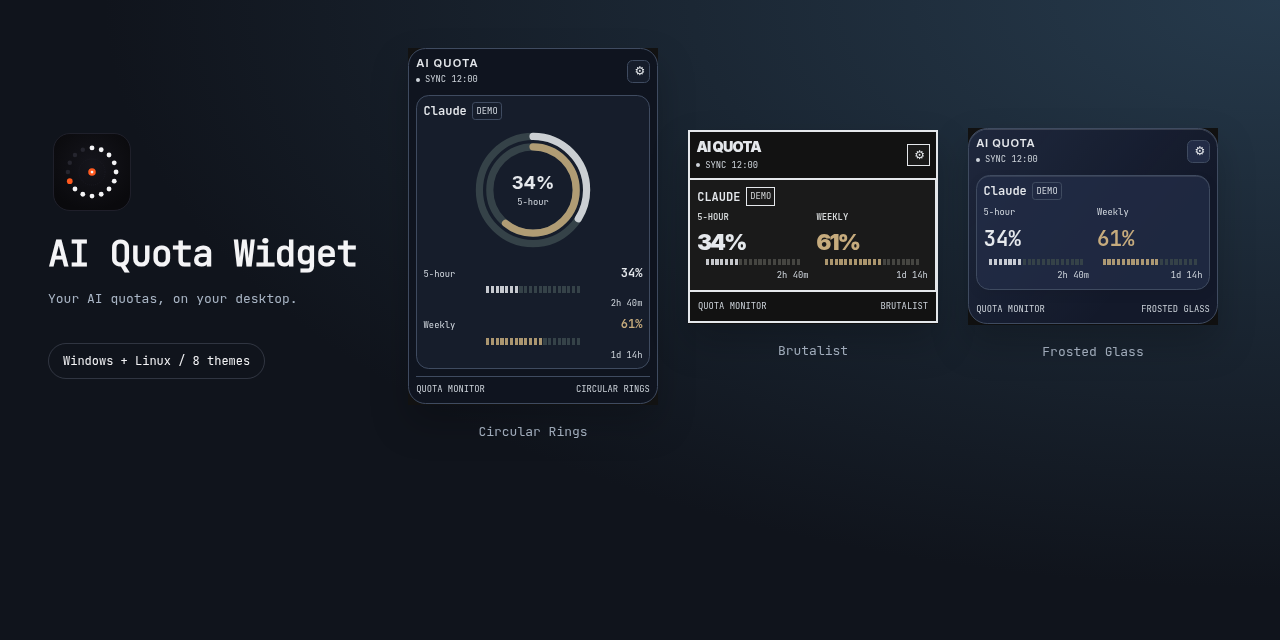
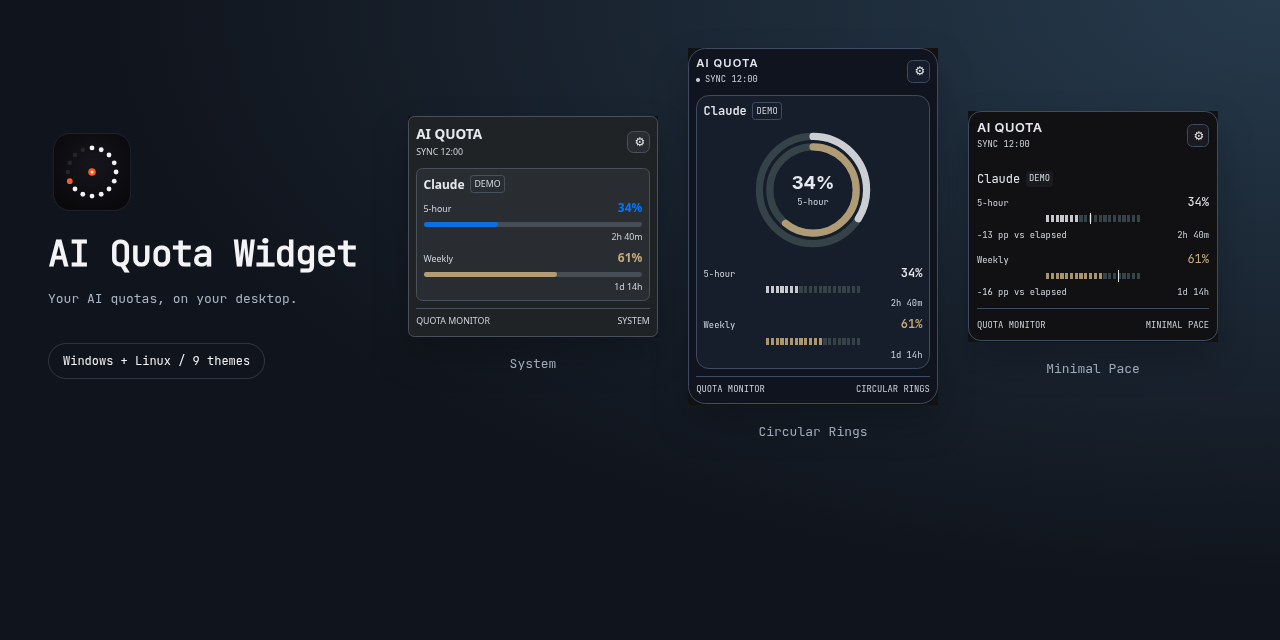
docs(readme): lead with the system theme

diff --git a/README.md b/README.md
@@ -14,14 +14,14 @@
 <p align="center">
   <picture>
     <source media="(prefers-color-scheme: light)" srcset="docs/screenshots/hero-light.png">
-    <img src="docs/screenshots/hero-dark.png" width="1000" alt="Circular Rings, Brutalist and Frosted Glass themes showing fictional quota data">
+    <img src="docs/screenshots/hero-dark.png" width="1000" alt="System theme on a desktop background with fictional quota data">
   </picture>
 </p>
 <p align="center"><a href="#install">Download</a> · <a href="#quick-start">Quick start</a> · <a href="docs/providers.md">Docs</a></p>
 
 Keep Claude Code, Codex and Gemini quota windows visible while you work. A compact desktop widget shows how much is used, when limits reset, and when a source needs attention. Resize it for a small glanceable display or keep detailed cards beside your editor. Panel integrations share the same local snapshot.
 
-Pre-release: installers are coming with v0.1. The name and logo are provisional. Gallery values are fictional; provider and desktop validation are listed below.
+Pre-release: installers are coming with v0.1. The working name is provisional. Gallery values are fictional; provider and desktop validation are listed below.
 
 ## Install
 
@@ -56,20 +56,20 @@ Open Vite's displayed URL with `?sample` to see fictional data. For a native sou
 
 ### Themes
 
-Choose from eight built-in themes: Dot Matrix, Circular Rings, Terminal, Frosted Glass, Brutalist, Compact Strip, Retro LCD and Minimal Pace. The Theme cards at the top of Settings switch the layout immediately. Each theme supports Auto, Light and Dark appearance; the palette list follows the selected theme. Compact Strip becomes horizontal in wide windows. Minimal Pace compares usage with elapsed session or weekly time; unknown intervals remain marked unavailable.
+System is the default: it fits your desktop with system fonts, light/dark appearance and the system accent where supported. Choose from nine built-in themes: System, Dot Matrix, Circular Rings, Terminal, Frosted Glass, Brutalist, Compact Strip, Retro LCD and Minimal Pace. The Theme cards at the top of Settings switch the layout immediately. Each theme supports Auto, Light and Dark appearance; the palette list follows the selected theme. Compact Strip becomes horizontal in wide windows. Minimal Pace compares usage with elapsed session or weekly time; unknown intervals remain marked unavailable.
 
 <picture>
   <source media="(prefers-color-scheme: light)" srcset="docs/screenshots/themes-light.png">
-  <img src="docs/screenshots/themes.png" alt="Eight selectable application themes with fictional quota data" width="1100">
+  <img src="docs/screenshots/themes.png" alt="Nine selectable application themes with fictional quota data" width="1100">
 </picture>
 
 [Individual dark and light captures](docs/screenshots/themes/) · [Light gallery](docs/screenshots/themes-light.png)
 
 ### Colors and sizing
 
-Dot Matrix includes Signal Orange, Sakura Pink, Nord and Mono Paper; the other themes include a palette matched to their design. Calm is the default: neutral usage below 50%, soft amber from 50%, and muted red from 80%. Choose Vivid in Settings → Look for the original colors, or Mono for pure black and white surfaces with hollow warning marks and inverse percentage capsules from 80%. The accent edge starts off; Auto follows the selected left/right corner and disappears in Free placement, or you can choose a fixed side. Accent and background colors can be overridden. Separate widget and background opacity controls let you tune transparency while keeping text readable. These controls change opacity, not monitor brightness or compositor blur.
+Dot Matrix starts with neutral Slate and includes Signal Orange, Sakura Pink, Nord and Mono Paper; the other themes include a palette matched to their design. Calm is the default: neutral usage below 50%, soft amber from 50%, and muted red from 80%. Choose Vivid in Settings → Look for the original colors, or Mono for pure black and white surfaces with hollow warning marks and inverse percentage capsules from 80%. The accent edge starts off; Auto follows the selected left/right corner and disappears in Free placement, or you can choose a fixed side. Accent and background colors can be overridden. Separate widget and background opacity controls let you tune transparency while keeping text readable. These controls change opacity, not monitor brightness or compositor blur.
 
-![All eight themes in Mono with fictional quota data](docs/screenshots/mono.png)
+![All nine themes in Mono with fictional quota data](docs/screenshots/mono.png)
 
 ![Four palette variants of the real widget](docs/screenshots/palettes.png)
 
@@ -123,7 +123,7 @@ Stable marks recorded live-source checks; beta adapters still need live-account 
 
 ## Privacy & security
 
-First launch asks which providers to track; nothing is enabled until you choose **Start**. CLI users run `quotacore init`. New providers default off. The widget reads a local snapshot. Collection can contact provider services using existing credentials: Claude's `~/.claude/.credentials.json`, Codex/agy CLI-managed authentication, GitHub CLI's token, or optional OpenRouter/DeepSeek API keys from environment variables or local `secrets.json`. JetBrains reads a local quota XML file.
+First launch asks which providers to track; all providers stay disabled until you choose **Start**. CLI users run `quotacore init`. New providers default off. The widget reads a local snapshot. Collection can contact provider services using existing credentials: Claude's `~/.claude/.credentials.json`, Codex/agy CLI-managed authentication, GitHub CLI's token, or optional OpenRouter/DeepSeek API keys from environment variables or local `secrets.json`. JetBrains reads a local quota XML file.
 
 Requests retrieve usage or balances; the collector does not submit prompts or request model completions. It does not scan chat history. Passive panel reads make no network requests; explicit refresh runs the collector. There is no application telemetry or analytics code. Third-party CLIs retain their own networking behavior. Snapshots, observations and pace history stay local and can contain sensitive usage metadata; do not attach raw files to issues. See the [security model](docs/security-model.md) for credential destinations, plaintext key storage, process limits, retention and verification; [provider data boundaries](docs/providers.md) describe adapter support.
 

diff --git a/docs/tools/README.md b/docs/tools/README.md
@@ -16,13 +16,13 @@ Hero, size, palette, scale, state and settings scenes embed the **built applicat
 
 Chrome's sandbox stays enabled by default. Restricted development environments can explicitly opt out with `SCREENSHOT_NO_SANDBOX=1`; only use that override with these trusted local fixtures. It needs loopback socket access. In an environment that denies sockets, rerun with the appropriate local execution permission. It does not need internet access once dependencies are present. Browser profile and servers are cleaned up on completion. Inspect every PNG after changing UI or fixtures; native desktop acceptance and design review remain separate.
 
-Theme captures include `themes.png`, `themes-light.png`, and `themes/<id>-dark.png` / `-light.png`. Hero and social preview compose multiple real themes. `checks/<id>-dark.png` / `-light.png` put the 340/200 px × 100/150% scale combinations side by side (64 cases total). Additional state scenes exercise stale/auth/rate-limit and extra/unknown windows. `checks/results.json` records provider counts, horizontal overflow, minimum visible text/number sizes, secondary text contrast and the one-active-theme-style invariant. The same browser then exercises every theme selector, appearance, 50/300% scale and the extra-window toggle, Color mode and all 12 Accent edge/position combinations. Fit frames are measured after font loading.
+Theme captures include `themes.png`, `themes-light.png`, and `themes/<id>-dark.png` / `-light.png`. Hero shows the System theme on Windows 11 style light and KDE Breeze style dark desktop backgrounds; social preview combines System with other real themes. `checks/<id>-dark.png` / `-light.png` put the 340/200 px × 100/150% scale combinations side by side (72 cases total). Additional state scenes exercise stale/auth/rate-limit and extra/unknown windows. `checks/results.json` records provider counts, horizontal overflow, minimum visible text/number sizes, secondary text contrast and the one-active-theme-style invariant. The same browser then exercises every theme selector, appearance, 50/300% scale and the extra-window toggle, Color mode and all 12 Accent edge/position combinations. Fit frames are measured after font loading.
 
 All widget scenes use Calm with the accent edge off. `checks/vivid.png` compares Calm and Vivid. Readability checks require labels ≥11 CSS px and primary numbers ≥15 CSS px at 100% (scaled proportionally at 150%), with secondary text contrast ≥4.5:1. Contrast is calculated from computed text colors and composited background-color layers against the least favorable black/white desktop polarity; background images and compositor effects require visual review. `checks/` remains ignored.
 
-`SCENE=checks/providers- node docs/tools/screenshots.mjs` captures first-run provider consent in all eight themes in dark/light modes and checks default-off choices, wrapped disclosures and explicit Start behavior. These controls use synthetic detection only.
+`SCENE=checks/providers- node docs/tools/screenshots.mjs` captures first-run provider consent in all nine themes in dark/light modes and checks default-off choices, wrapped disclosures and explicit Start behavior. These controls use synthetic detection only.
 
-Mono adds `mono.png` (all eight themes), `checks/mono-light.png`,
+Mono adds `mono.png` (all nine themes), `checks/mono-light.png`,
 `checks/mono-thresholds.png` (0/49/50/79/80/100/unknown), and
 `checks/dots-{200,340,520,700}.png`. Mono uses a neutral gallery background.
 Width checks assert visible per-window mark counts (10 in XS, otherwise 20)
@@ -31,3 +31,11 @@ and record mark widths alongside the other metrics. Interaction checks exercise
 warning at exactly 50%, danger at exactly 80%, and the first hollow warning mark.
 Filtered runs save their numeric results under `checks/<SCENE with slashes
 replaced by hyphens>.json`; unfiltered runs continue to write `checks/results.json`.
+
+System is the default theme. `checks/system-matrix-dark.png` and
+`checks/system-matrix-light.png` cover 200/340/520 CSS px × Calm/Mono (12 cases).
+These scenes emulate the OS color preference with Appearance set to Auto and
+assert the resolved mode, system font stack, 8 px corners and continuous bars.
+System is excluded from dot-count assertions because its meters are continuous;
+its quota severity thresholds are still checked. Native accent support is recorded
+in the results; actual WebView2/WebKitGTK desktop rendering needs platform checks.

diff --git a/docs/configuration.md b/docs/configuration.md
@@ -2,7 +2,7 @@
 
 Display settings and quota collection settings are separate. Change display settings using the gear button; do not edit files while the widget is saving them. The browser's `?sample` mode uses synthetic data and never saves native settings.
 
-New Look fields default to Calm/Off when missing. Until the native settings schema supports them, these two fields also persist in the local webview store; they are not portable by copying `settings.json` alone.
+Theme defaults to System when no choice is stored; an existing explicit theme is preserved. Theme and newer Look fields persist in the local webview store until the native settings schema supports them, so copying `settings.json` alone does not transfer them.
 
 ## Display settings
 
@@ -10,10 +10,11 @@ New Look fields default to Calm/Off when missing. Until the native settings sche
 
 | Field | Default | Meaning |
 | --- | --- | --- |
+| `theme` | `system` | System, Dot Matrix and seven other designs; selected in Settings → Theme. |
 | `appearance` | `auto` | `auto`, `light`, `dark`; auto follows OS color preference live. |
-| `colorMode` | `calm` | Neutral usage through 50%, soft amber above 50%, muted red from 80%; `vivid` restores theme colors. |
+| `colorMode` | `calm` | Neutral or system-accent usage below 50%, soft amber from 50%, muted red from 80%; `vivid` restores theme colors. |
 | `accentEdge` | `off` | `off`, `auto`, `left`, `right`; Auto follows the selected corner, with no edge in Free placement. |
-| `palette` | `signal-orange` | `signal-orange`, `sakura-pink`, `nord`, `mono-paper`. |
+| `palette` | Theme dependent | System: `default` (Desktop). Dot Matrix: `slate` (neutral default), `signal-orange`, `sakura-pink`, `nord`, `mono-paper`. Existing palette choices remain available. |
 | `accent`, `background` | `null` | Optional CSS color overrides; choosing a palette clears these overrides. |
 | `widgetOpacity` | `100` | Opacity of the entire widget, including text; UI range 20–100. |
 | `backgroundOpacity` | `100` | Background opacity, 0–100; this does not enable compositor blur. |
@@ -79,3 +80,5 @@ Provider CLIs must be discoverable in the desktop process environment, which can
 `doctor` uses cached data and reports resolved Python/module/CLI paths. Use `doctor --live` only when you want credential/network checks of enabled providers. `key set` stores plaintext keys with Unix 0600 or a current-user protected Windows DACL. See the [security model](security-model.md).
 
 Hook chaining uses a JSON argv array: `quotacore hook claude --chain-cmd '["program", "argument"]'`. `--chain` is now an alias for the same JSON format; old shell strings must be migrated explicitly to `--chain-shell`. Both receive raw stdin, allow 5 seconds and at most 64 KiB stdout. Only trust commands you select.
+
+System uses a system-ui font stack without bundled theme fonts, 8 px cards and continuous rounded bars. Auto appearance follows `prefers-color-scheme`; supported webviews use CSS `AccentColor` and `AccentColorText`, with a neutral blue-gray fallback. Mono retains continuous bars and adds a warning hatch / inverse danger label. System keeps one column at wide sizes.

diff --git a/docs/design-spec.md b/docs/design-spec.md
@@ -1,13 +1,14 @@
 # Meter and size standard
 
-Every quota window has 20 marks by default. Settings → Look → Dot count selects
+System uses continuous rounded progress bars, system fonts and 8 px card corners.
+All other themes have 20 marks per quota window by default. Settings → Look → Dot count selects
 10, 20 or 30. XS (below 220 design pixels) always uses 10. Marks represent used
 quota, rounded to the nearest mark; the percentage remains the precise label.
 Unknown quota has an explicitly unknown appearance and label. Widening a window
 never increases mark count or mark diameter. Rows center within their available
 space and may wrap at extreme sizes instead of shrinking the marks.
 
-Dot Matrix uses circles. Other themes use rectangular segments while retaining
+Dot Matrix uses circles. The other themes use rectangular segments while retaining
 their typography, borders and layouts. Circular Rings retains its additional
 continuous rings; Minimal Pace retains the elapsed-time marker.
 
@@ -25,11 +26,11 @@ pure black surfaces and white ink (reversed in Light); secondary ink and tracks
 are gray. Theme identity comes from geometry and typography, rather than hue.
 
 From 50%, the last portion of active marks, beginning at the midpoint, becomes
-hollow. From 80%, percentage labels use an inverse capsule as well. Stale and
+hollow; System uses a warning hatch on its continuous bar. From 80%, percentage labels use an inverse capsule as well. Stale and
 other status badges have monochrome outlines. Unknown marks stay distinct.
 No pulse animation is used, including with reduced motion enabled.
 
-See [the eight-theme Mono gallery](screenshots/mono.png). All data in documentation
+See [the nine-theme Mono gallery](screenshots/mono.png). All data in documentation
 captures is fictional. `node docs/tools/screenshots.mjs` captures the gallery and
 `checks/dots-{200,340,520,700}.png`; checks and numeric results are ignored by Git.
 Each visible row is measured in the browser, with counts recorded per theme.
